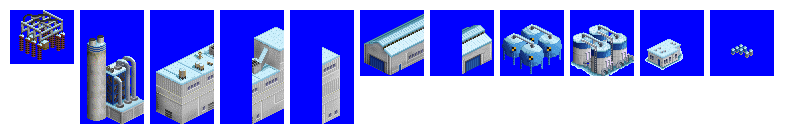
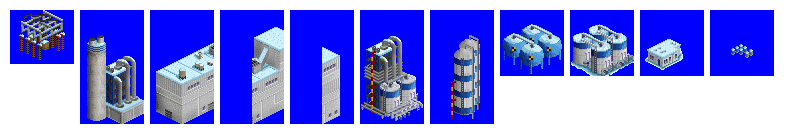
Change: improved appearance of Chemical Plant

Changed region(s): [[0.4375, 0.1143, 0.625, 0.8857]]

diff --git a/src/industries/chemical_plant.py b/src/industries/chemical_plant.py
@@ -73,12 +73,12 @@ spriteset_4 = industry.add_spriteset(
 )
 spriteset_5 = industry.add_spriteset(
     id = 'chemical_plant_spriteset_5',
-    sprites = [(360, 10, 64, 66, -31, -35)],
+    sprites = [(360, 10, 64, 114, -31, -83)],
     zextent = 48
 )
 spriteset_6 = industry.add_spriteset(
     id = 'chemical_plant_spriteset_6',
-    sprites = [(430, 10, 64, 66, -31, -35)],
+    sprites = [(430, 10, 64, 114, -31, -83)],
     zextent = 48
 )
 spriteset_7 = industry.add_spriteset(
@@ -149,14 +149,14 @@ industry.add_spritelayout(
     ground_sprite = spriteset_ground,
     ground_overlay = spriteset_ground_overlay,
     building_sprites = [spriteset_5],
-    fences = ['nw','ne']
+    fences = ['nw','ne','se','sw']
 )
 industry.add_spritelayout(
     id = 'chemical_plant_spritelayout_6',
     ground_sprite = spriteset_ground,
     ground_overlay = spriteset_ground_overlay,
     building_sprites = [spriteset_6],
-    fences = ['nw','ne']
+    fences = ['nw','ne','se','sw']
 )
 industry.add_spritelayout(
     id = 'chemical_plant_spritelayout_7',
